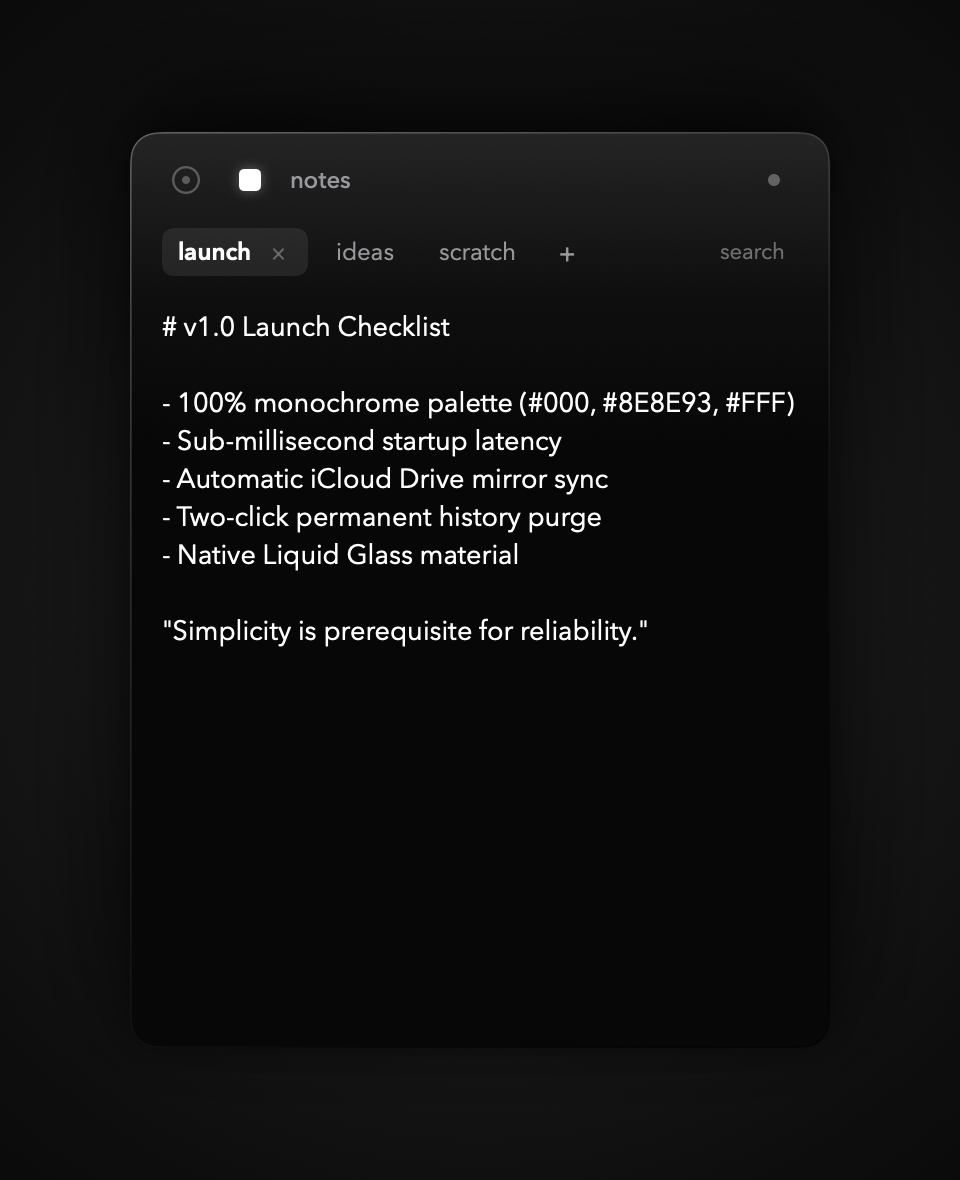
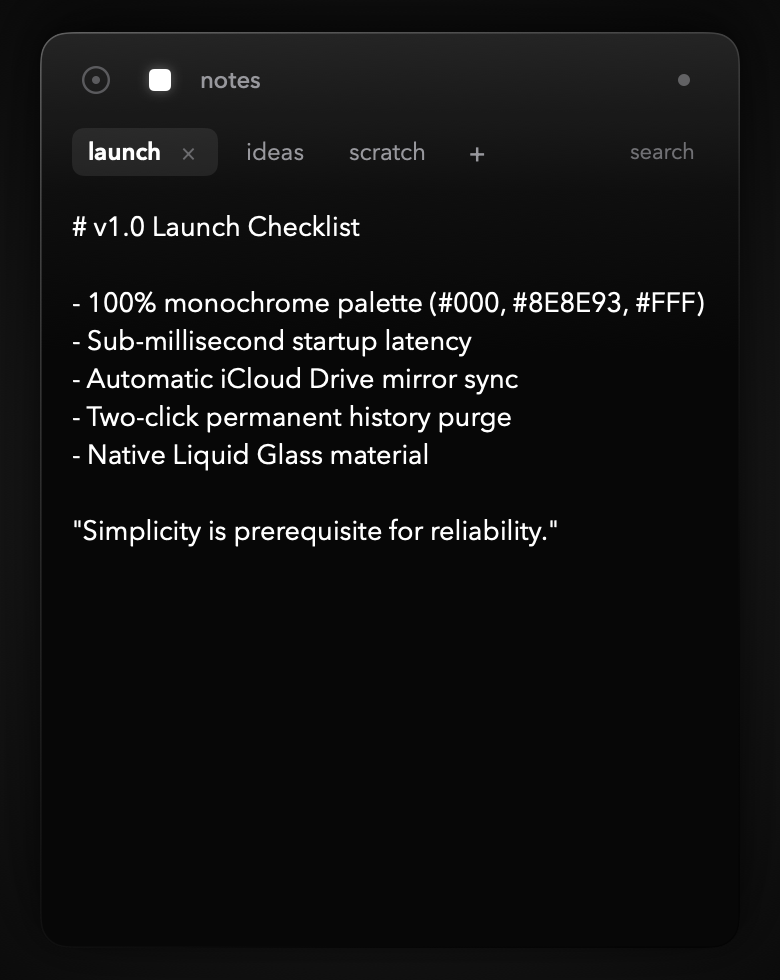
Standardize all screenshots to matching 780x980 2x Retina studio cards with enlarged UI

diff --git a/Tests/DotoTests/DotoTests.swift b/Tests/DotoTests/DotoTests.swift
@@ -249,24 +249,27 @@ final class DotoTests: XCTestCase {
         let artifactDir = "/Users/ahmetkamercivi/.gemini/antigravity/brain/9cc66d99-0f43-42e2-a81e-c052da4fc5b6"
         let assetsDir = "/Users/ahmetkamercivi/Documents/antigravity/happy-mendeleev/doto/assets"
 
+        let cardSize = CGSize(width: 390, height: 490)
+
         // 1. Tasks View Dark Mode
         let tasksDarkCard = ZStack {
             RadialGradient(
                 colors: [Color(white: 0.16), Color(white: 0.08), Color(white: 0.03)],
                 center: .center,
                 startRadius: 40,
-                endRadius: 420
+                endRadius: 360
             )
 
             DotoPopoverView(taskManager: taskManager, noteManager: noteManager)
                 .environment(\.colorScheme, .dark)
-                .shadow(color: Color.black.opacity(0.65), radius: 30, x: 0, y: 18)
-                .shadow(color: Color.black.opacity(0.40), radius: 8, x: 0, y: 4)
+                .shadow(color: Color.black.opacity(0.55), radius: 18, x: 0, y: 10)
+                .shadow(color: Color.black.opacity(0.35), radius: 6, x: 0, y: 3)
         }
-        .frame(width: 480, height: 590)
+        .frame(width: cardSize.width, height: cardSize.height)
 
-        render2xRetina(view: tasksDarkCard, size: CGSize(width: 480, height: 590), path: "\(assetsDir)/doto_tasks_dark.png")
-        render2xRetina(view: tasksDarkCard, size: CGSize(width: 480, height: 590), path: "\(artifactDir)/doto_actual_ui_dark.png")
+        render2xRetina(view: tasksDarkCard, size: cardSize, path: "\(assetsDir)/doto_tasks_dark.png")
+        render2xRetina(view: tasksDarkCard, size: cardSize, path: "\(assetsDir)/doto_tasks_dark_v2.png")
+        render2xRetina(view: tasksDarkCard, size: cardSize, path: "\(artifactDir)/doto_actual_ui_dark.png")
 
         // 2. Notes View Dark Mode
         let notesDarkWindow = VStack(spacing: 10) {
@@ -294,18 +297,19 @@ final class DotoTests: XCTestCase {
                 colors: [Color(white: 0.16), Color(white: 0.08), Color(white: 0.03)],
                 center: .center,
                 startRadius: 40,
-                endRadius: 420
+                endRadius: 360
             )
 
             notesDarkWindow
-                .shadow(color: Color.black.opacity(0.65), radius: 30, x: 0, y: 18)
-                .shadow(color: Color.black.opacity(0.40), radius: 8, x: 0, y: 4)
+                .shadow(color: Color.black.opacity(0.55), radius: 18, x: 0, y: 10)
+                .shadow(color: Color.black.opacity(0.35), radius: 6, x: 0, y: 3)
         }
-        .frame(width: 480, height: 590)
+        .frame(width: cardSize.width, height: cardSize.height)
 
-        render2xRetina(view: notesDarkCard, size: CGSize(width: 480, height: 590), path: "\(assetsDir)/doto_due_dark.png")
-        render2xRetina(view: notesDarkCard, size: CGSize(width: 480, height: 590), path: "\(assetsDir)/doto_notes_dark.png")
-        render2xRetina(view: notesDarkCard, size: CGSize(width: 480, height: 590), path: "\(artifactDir)/doto_notes_ui_dark.png")
+        render2xRetina(view: notesDarkCard, size: cardSize, path: "\(assetsDir)/doto_due_dark.png")
+        render2xRetina(view: notesDarkCard, size: cardSize, path: "\(assetsDir)/doto_notes_dark.png")
+        render2xRetina(view: notesDarkCard, size: cardSize, path: "\(assetsDir)/doto_notes_dark_v2.png")
+        render2xRetina(view: notesDarkCard, size: cardSize, path: "\(artifactDir)/doto_notes_ui_dark.png")
 
         // 3. Notes View Light Mode
         let notesLightWindow = VStack(spacing: 10) {
@@ -333,17 +337,18 @@ final class DotoTests: XCTestCase {
                 colors: [Color(white: 0.98), Color(white: 0.92), Color(white: 0.86)],
                 center: .center,
                 startRadius: 40,
-                endRadius: 420
+                endRadius: 360
             )
 
             notesLightWindow
-                .shadow(color: Color.black.opacity(0.18), radius: 30, x: 0, y: 18)
-                .shadow(color: Color.black.opacity(0.08), radius: 8, x: 0, y: 4)
+                .shadow(color: Color.black.opacity(0.18), radius: 18, x: 0, y: 10)
+                .shadow(color: Color.black.opacity(0.08), radius: 6, x: 0, y: 3)
         }
-        .frame(width: 480, height: 590)
+        .frame(width: cardSize.width, height: cardSize.height)
 
-        render2xRetina(view: notesLightCard, size: CGSize(width: 480, height: 590), path: "\(assetsDir)/doto_notes_light.png")
-        render2xRetina(view: notesLightCard, size: CGSize(width: 480, height: 590), path: "\(artifactDir)/doto_notes_ui_light.png")
+        render2xRetina(view: notesLightCard, size: cardSize, path: "\(assetsDir)/doto_notes_light.png")
+        render2xRetina(view: notesLightCard, size: cardSize, path: "\(assetsDir)/doto_notes_light_v2.png")
+        render2xRetina(view: notesLightCard, size: cardSize, path: "\(artifactDir)/doto_notes_ui_light.png")
 
         // 4. Tasks View Light Mode
         let tasksLightCard = ZStack {
@@ -351,18 +356,19 @@ final class DotoTests: XCTestCase {
                 colors: [Color(white: 0.98), Color(white: 0.92), Color(white: 0.86)],
                 center: .center,
                 startRadius: 40,
-                endRadius: 420
+                endRadius: 360
             )
 
             DotoPopoverView(taskManager: taskManager, noteManager: noteManager)
                 .environment(\.colorScheme, .light)
-                .shadow(color: Color.black.opacity(0.18), radius: 30, x: 0, y: 18)
-                .shadow(color: Color.black.opacity(0.08), radius: 8, x: 0, y: 4)
+                .shadow(color: Color.black.opacity(0.18), radius: 18, x: 0, y: 10)
+                .shadow(color: Color.black.opacity(0.08), radius: 6, x: 0, y: 3)
         }
-        .frame(width: 480, height: 590)
+        .frame(width: cardSize.width, height: cardSize.height)
 
-        render2xRetina(view: tasksLightCard, size: CGSize(width: 480, height: 590), path: "\(assetsDir)/doto_tasks_light.png")
-        render2xRetina(view: tasksLightCard, size: CGSize(width: 480, height: 590), path: "\(artifactDir)/doto_actual_ui_light.png")
+        render2xRetina(view: tasksLightCard, size: cardSize, path: "\(assetsDir)/doto_tasks_light.png")
+        render2xRetina(view: tasksLightCard, size: cardSize, path: "\(assetsDir)/doto_tasks_light_v2.png")
+        render2xRetina(view: tasksLightCard, size: cardSize, path: "\(artifactDir)/doto_actual_ui_light.png")
     }
 
     @MainActor

diff --git a/README.md b/README.md
@@ -13,9 +13,9 @@
 <br/>
 
 <p align="center">
-  <img src="assets/doto_tasks_dark.png" width="31%" alt="Tasks & Habits" />
-  <img src="assets/doto_notes_dark.png" width="31%" alt="Tabbed Scratchpad & Search" />
-  <img src="assets/doto_notes_light.png" width="31%" alt="Light Mode" />
+  <img src="assets/doto_tasks_dark_v2.png" width="32.5%" alt="Tasks & Habits" />
+  <img src="assets/doto_notes_dark_v2.png" width="32.5%" alt="Tabbed Scratchpad & Search" />
+  <img src="assets/doto_notes_light_v2.png" width="32.5%" alt="Light Mode" />
 </p>
 
 *Strictly 3 colors. Zero icons. Zero clutter. Pure typographic geometry.*
